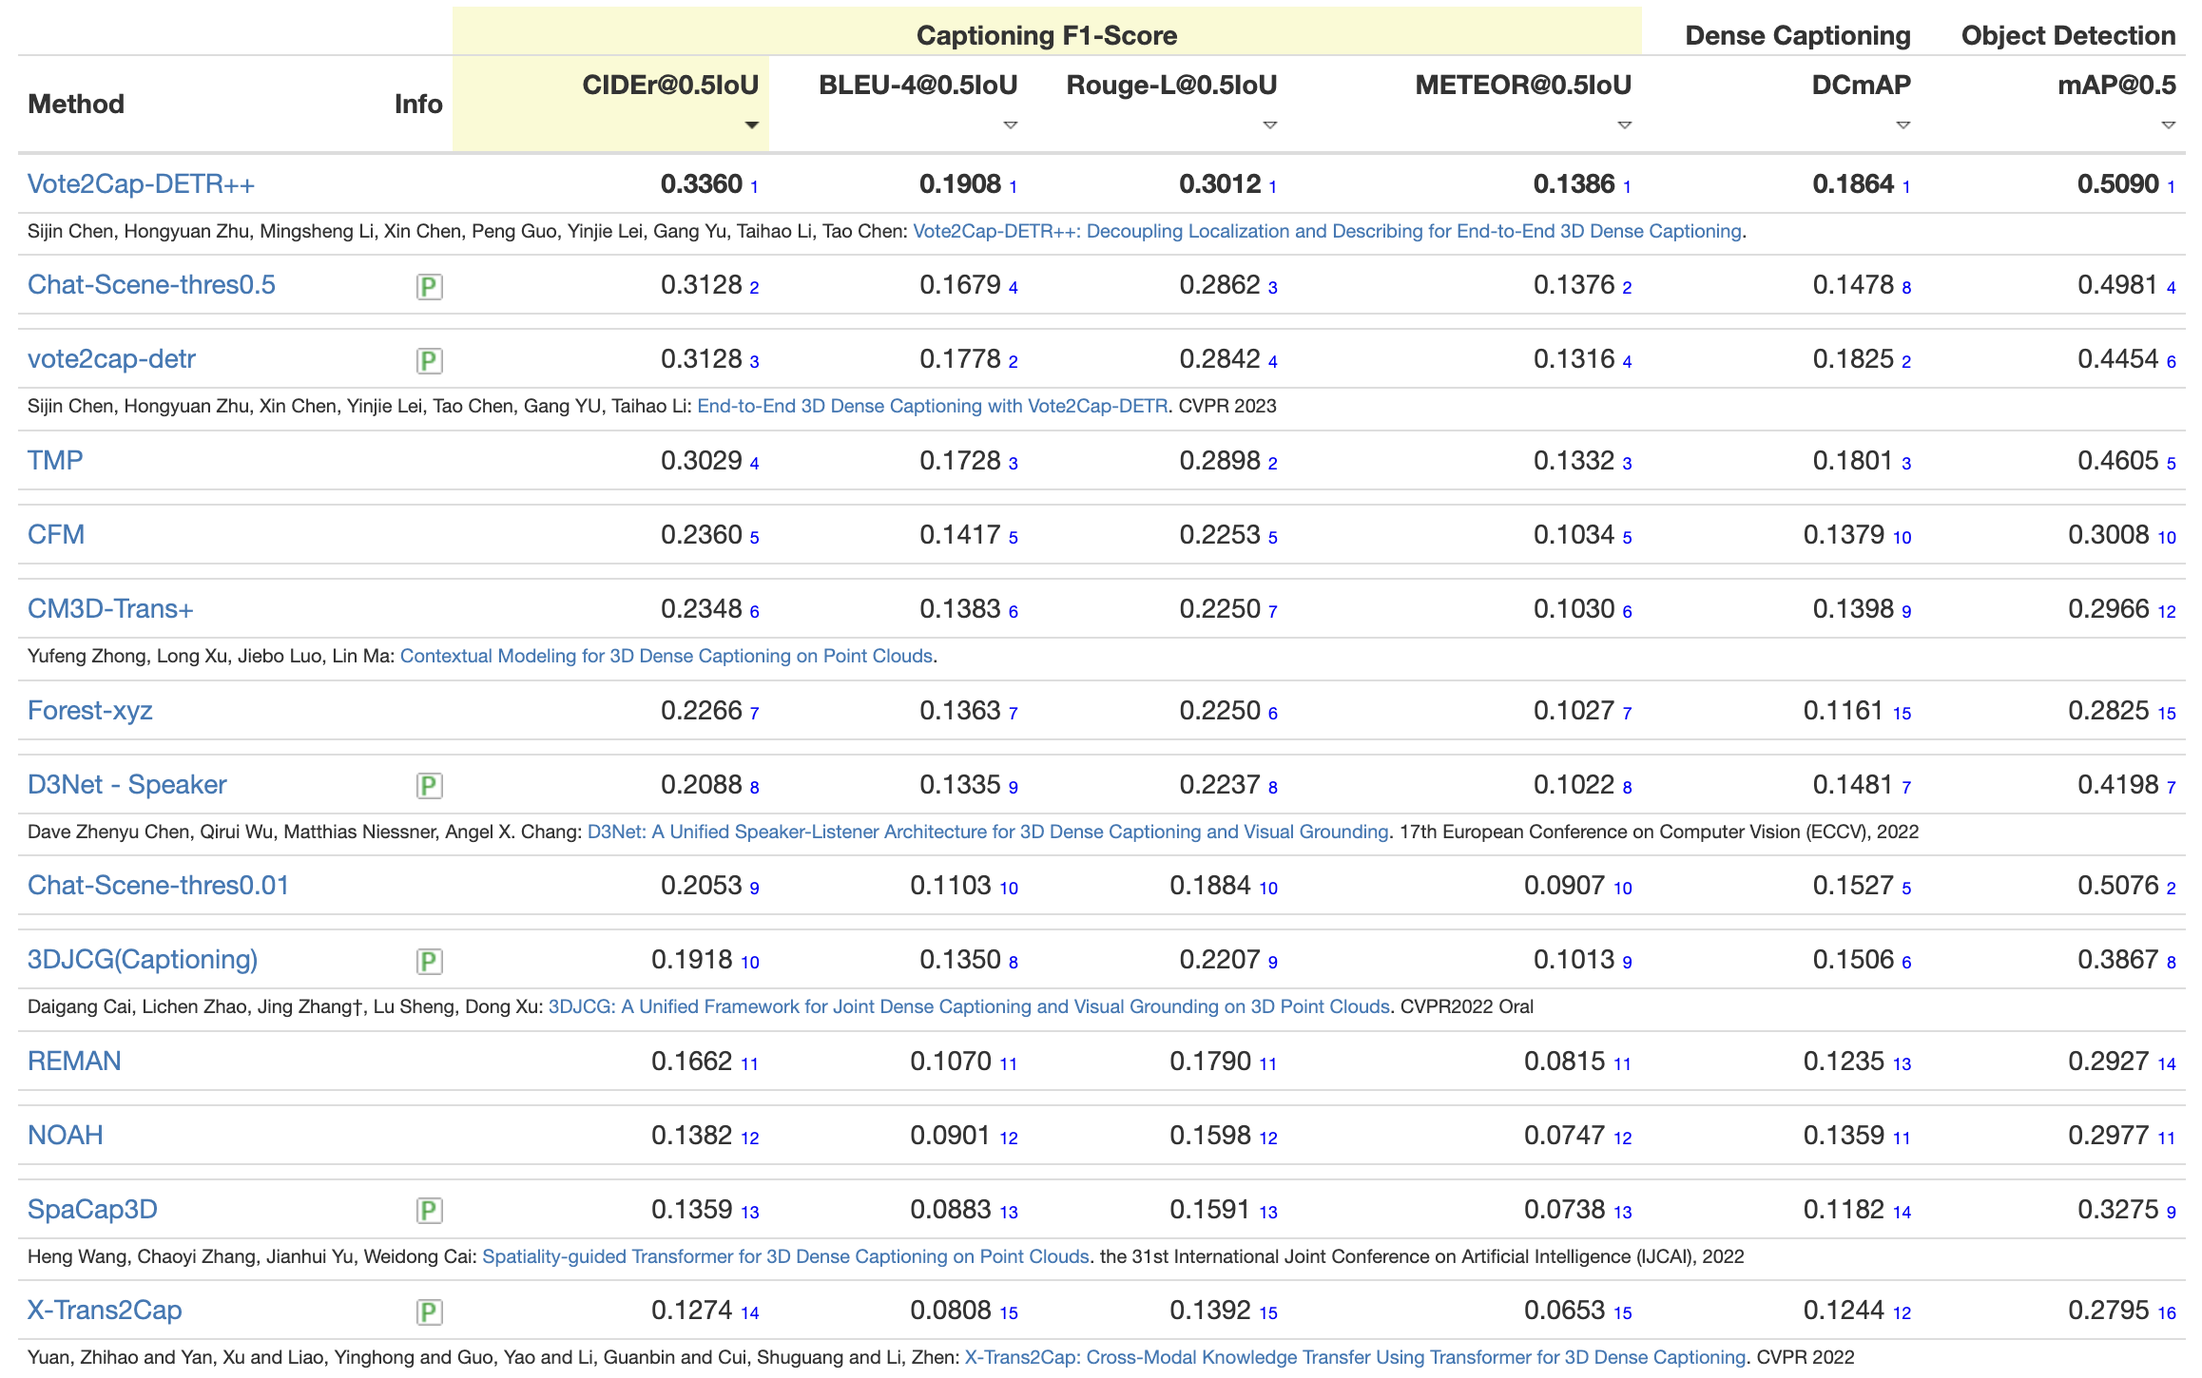
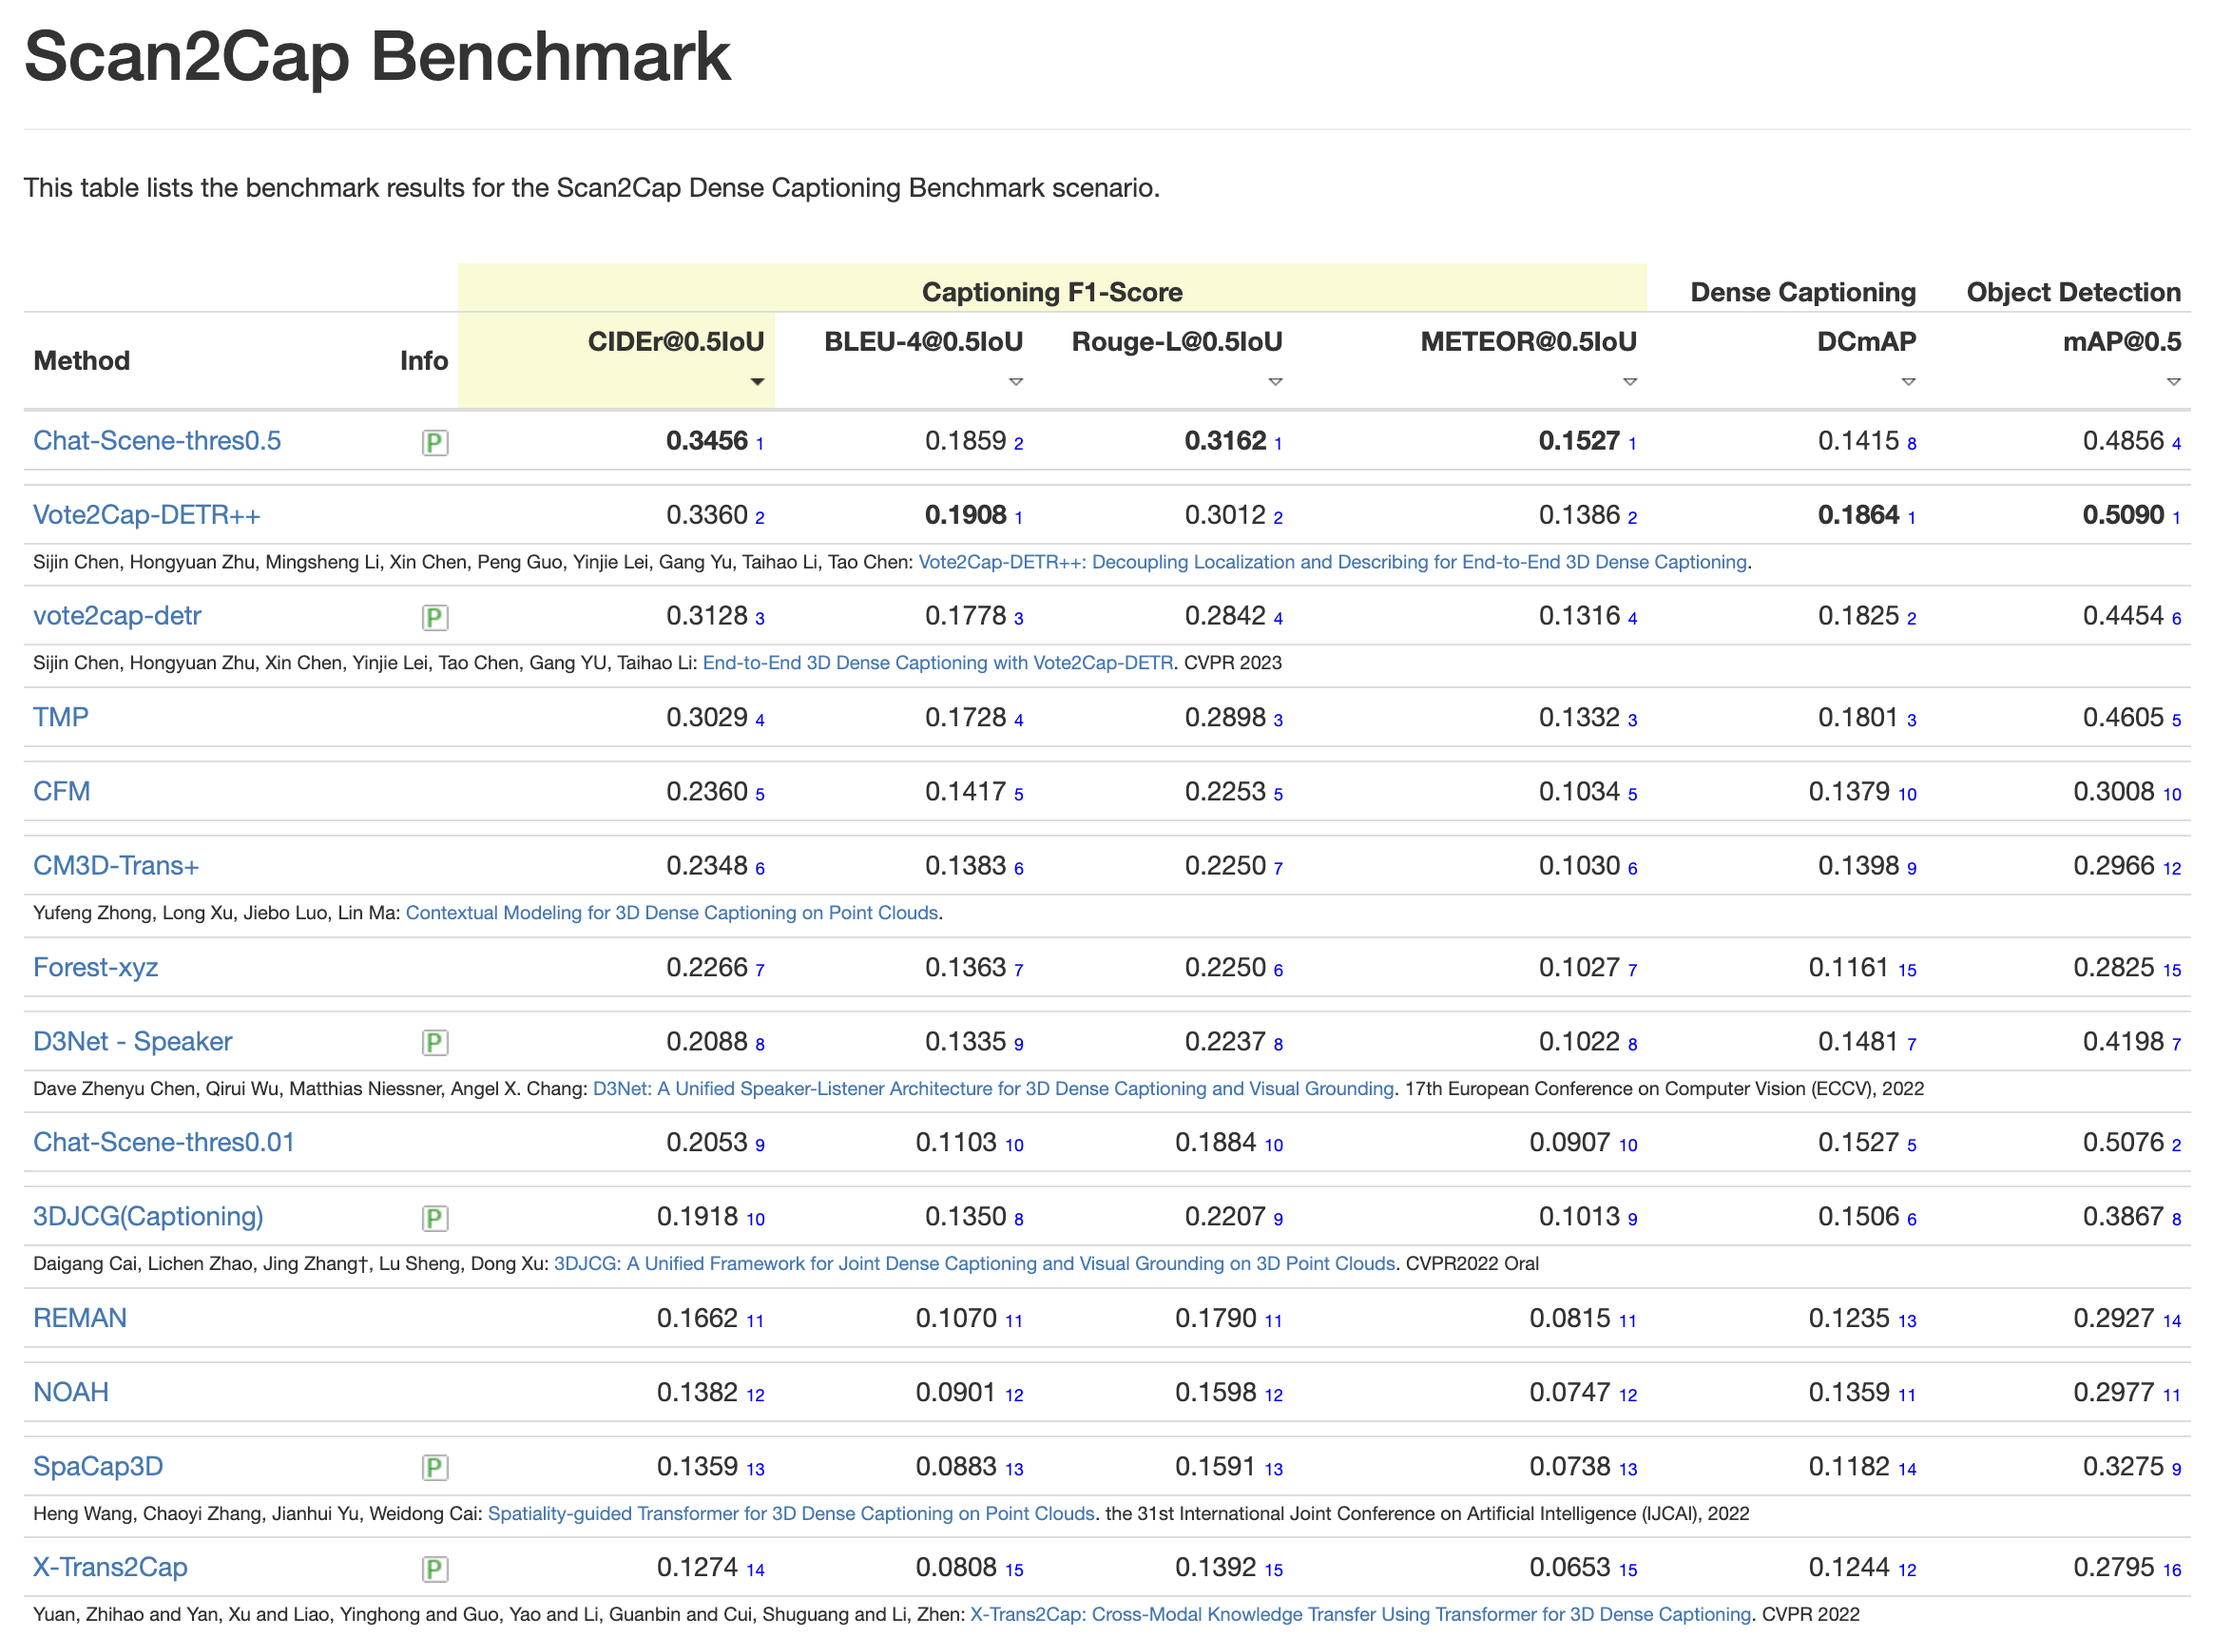
update benchmark result

diff --git a/README.md b/README.md
@@ -3,25 +3,19 @@
 We build a multi-modal large language model for 3D scene understanding, excelling in tasks such as 3D grounding, captioning, and question answering.
 
 <details>
-<summary> Ranked 1st on the ScanRefer Benchmark </summary>
+<summary> 🔥 Ranked 1st on the ScanRefer Benchmark (Sept. 2024) </summary>
 
 ![alt text](assets/scanrefer_benchmark_results.png)
-[benchmark link](https://kaldir.vc.in.tum.de/scanrefer_benchmark/benchmark_localization)
+[leaderboard link](https://kaldir.vc.in.tum.de/scanrefer_benchmark/benchmark_localization)
 </details>
 
 <details>
-<summary> Ranked 2nd on the Scan2Cap Benchmark </summary>
+<summary> 🔥 Ranked 1st on the Scan2Cap Benchmark (Sept. 2024) </summary>
 
 ![alt text](assets/scan2cap_benchmark_results.png)
-[benchmark link](https://kaldir.vc.in.tum.de/scanrefer_benchmark/benchmark_captioning)
+[leaderboard link](https://kaldir.vc.in.tum.de/scanrefer_benchmark/benchmark_captioning)
 </details>
 
-<details>
-<summary> Ranked 2nd on the ScanQA Benchmark </summary>
-
-![alt text](assets/scanqa_benchmark_results.png)
-[benchmark link](https://eval.ai/web/challenges/challenge-page/1715/leaderboard/4106/CIDEr)
-</details>
 
 ## News
 
